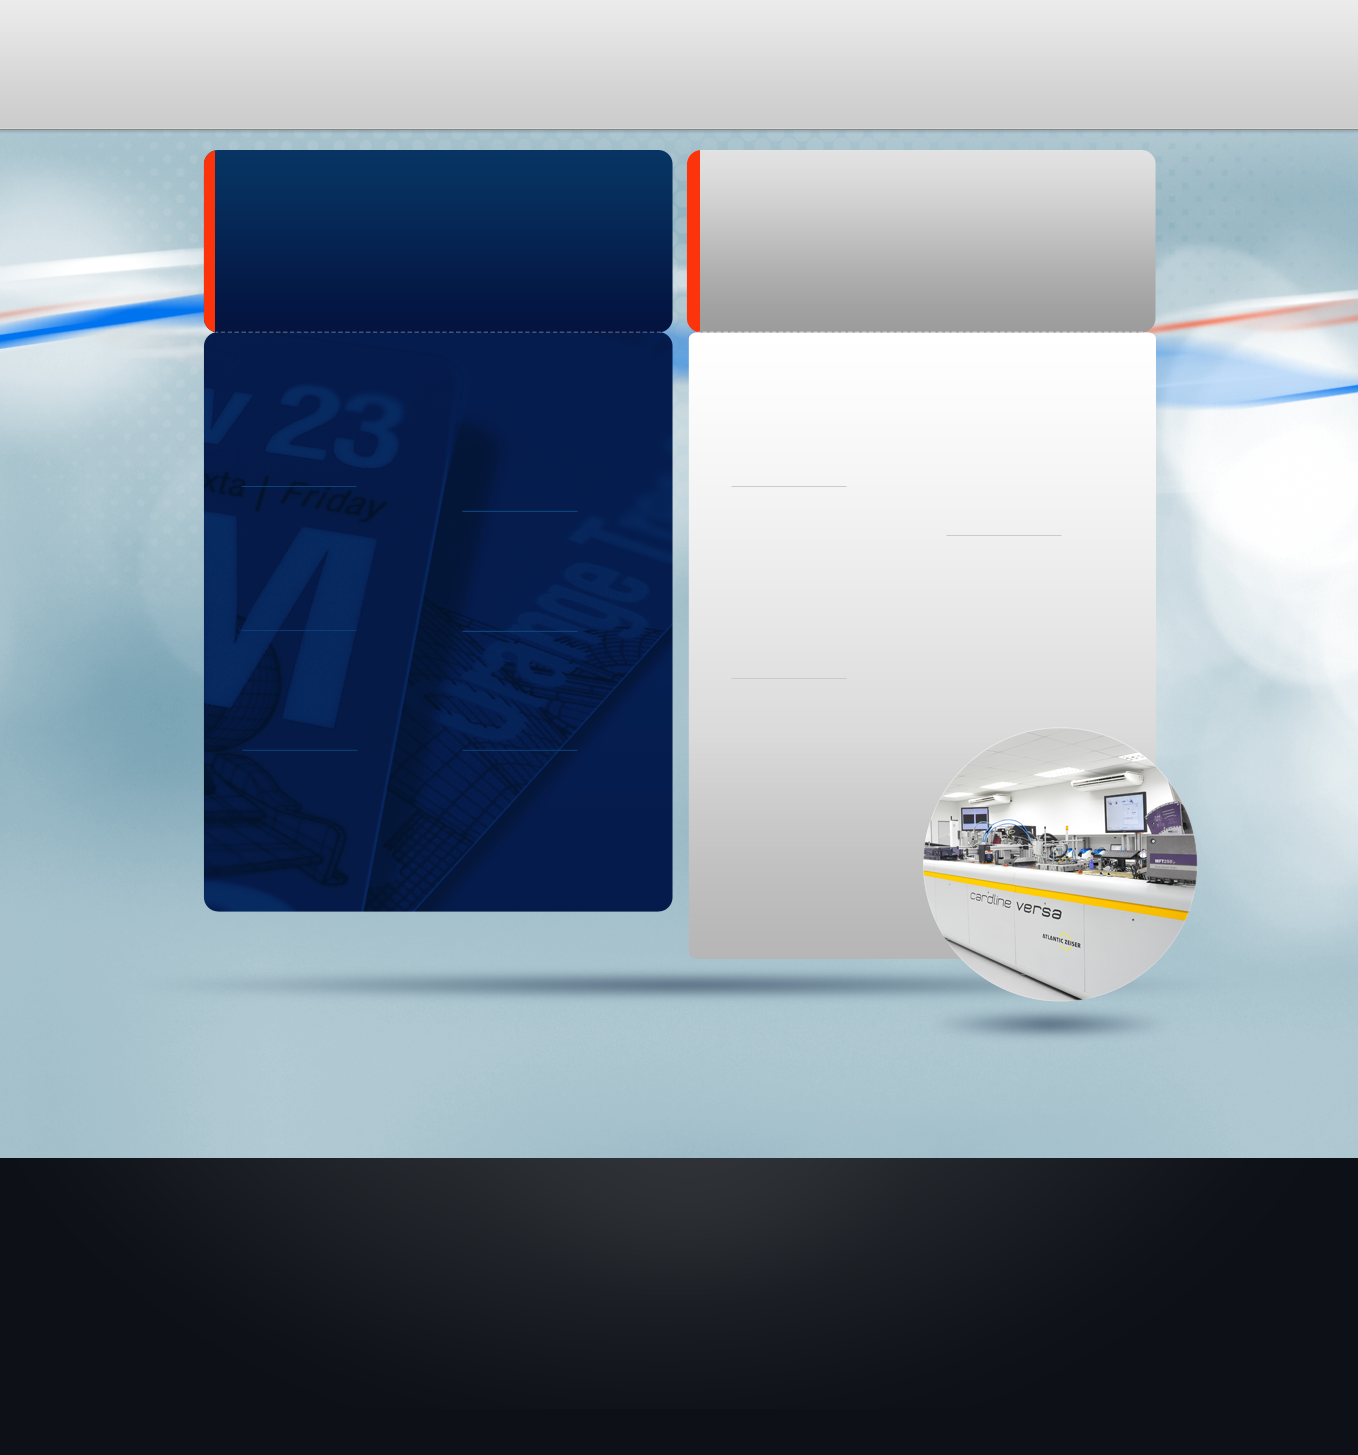
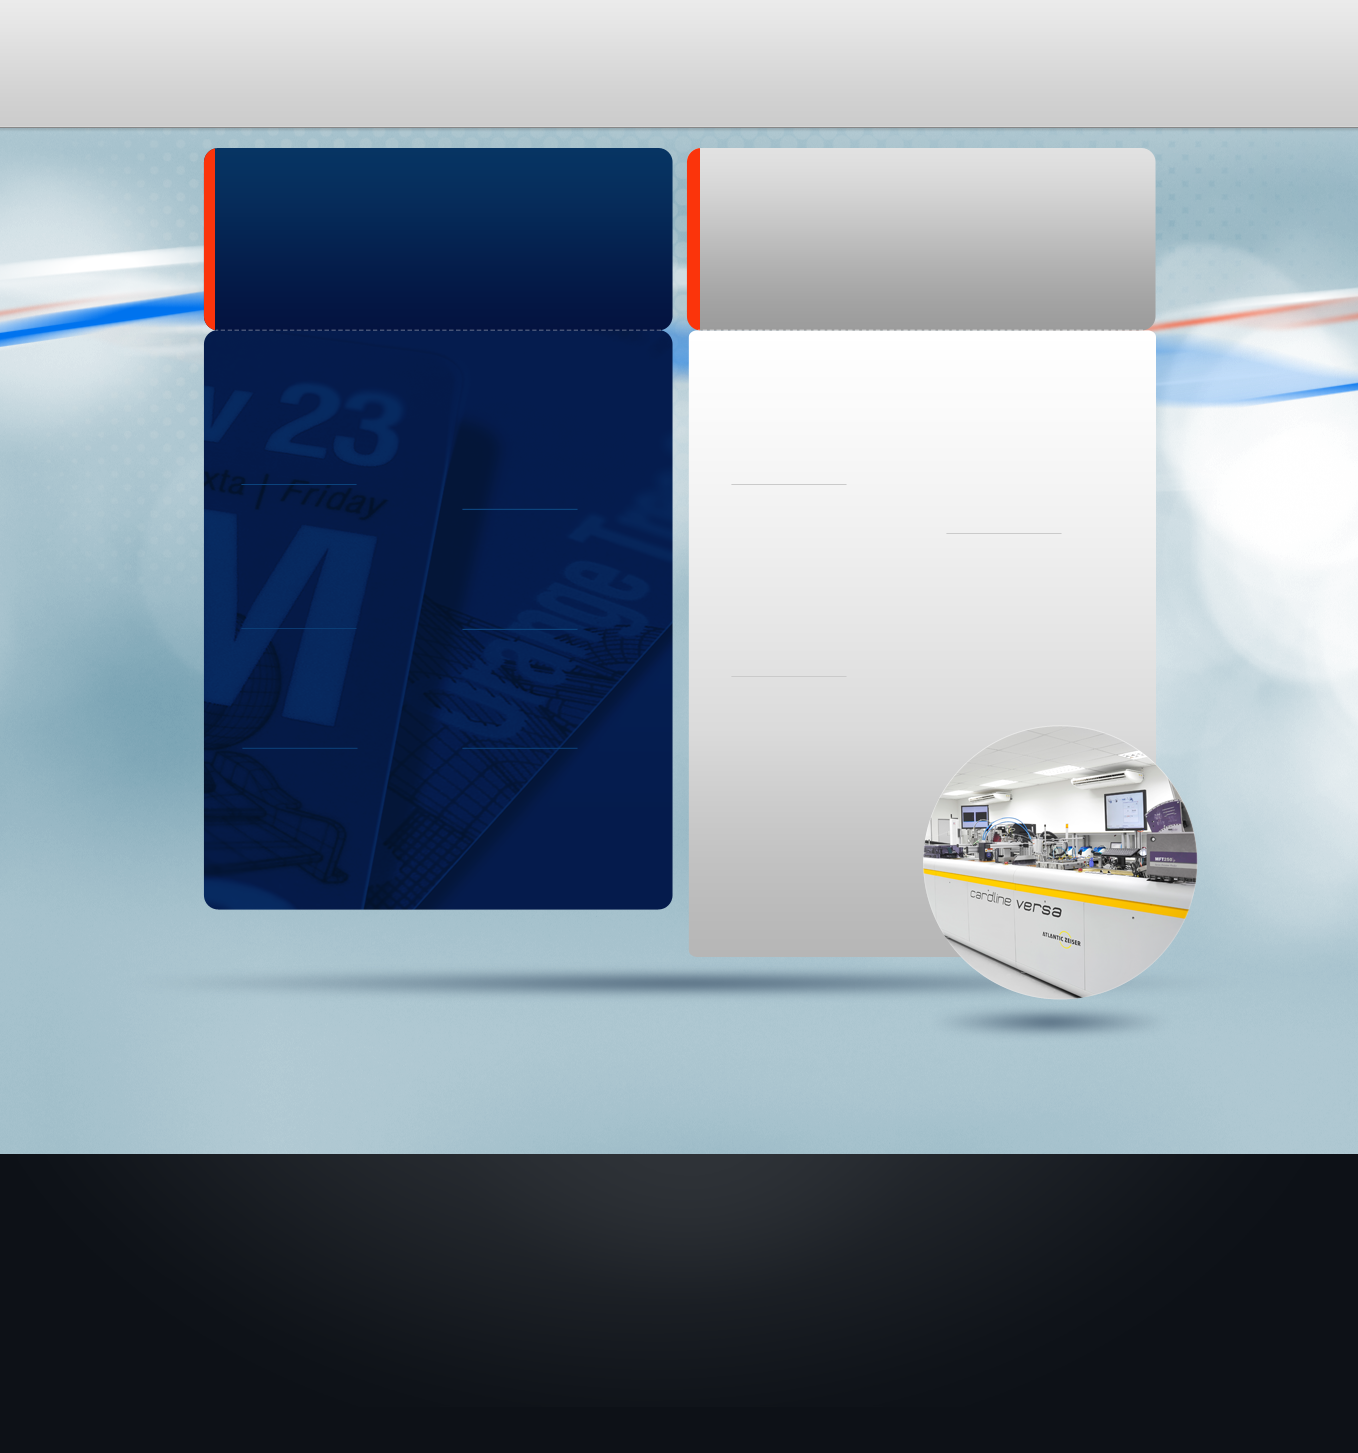
faltando centralizar empresa e servico

diff --git a/css/index.css b/css/index.css
@@ -27,7 +27,7 @@
 				font-family: Signika, sans-serif; font-weight: 300; font-size: 13px; color: #ffffff
 		}
 
-		#middle #media #playerTittle { width: 368px; height: 173px; padding-left: 122px; padding-top: 8px; letter-spacing: 1px }
+		#middle #media #playerTittle { width: 368px; height: 173px; padding-left: 13px; padding-top: 7px; letter-spacing: 1px; float: left }
 			#middle #media #playerTittle a { font-family: Signika, sans-serif; font-weight: 300; font-size: 13px; color: #1046d6 }
 	
 

diff --git a/css/produto.css b/css/produto.css
@@ -11,7 +11,7 @@
 	#middle #card { width: 386px; height: 884px; float: left }
 
 		#middle #card #cardMenu { 
-			width: 189px; height: 670px; margin-left: 189px;
+			width: 189px; height: 670px; margin-left: 188px;
 			font-family: Signika, sans-serif; color: #ffffff }
 
 			#middle #card #cardMenu #cardTittle { height: 70px; padding-top: 56px; font-weight: 400; font-size: 17px; 

diff --git a/css/seguranca.css b/css/seguranca.css
@@ -1,5 +1,7 @@
 .background { height: 1455px }
 
+body { background-image: url("../img/background_security.png"); background-repeat: repeat-x }
+
 /*  servico.css  */
 
 #securityContent { background: url(../img/securityBackground.png ) no-repeat 0 0 }
